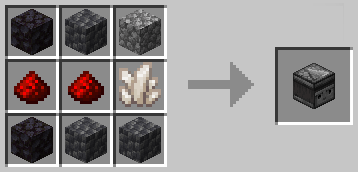
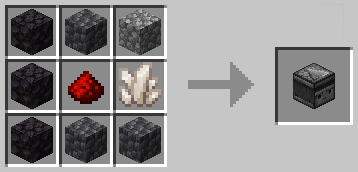
added shapeless recipes

Changed region(s): [[0.0307, 0.3488, 0.1536, 0.6395]]

diff --git a/RECIPE.md b/RECIPE.md
@@ -121,7 +121,7 @@
 ### Observer
 <img src="https://github.com/mygazthehealer/chocos-crafting-tweaks/blob/main/other/crafting/observer.png?raw=true">
 
-- Input is 2 Redstone Dust, 1 Quartz and 6 Cobblestone/Cobbled Deepslate/Blackstone (instead of 2 Redstone Dust, 1 Quartz and 6 Cobblestone)
+- Input is 1 Redstone Dust, 1 Quartz and 7 Cobblestone/Cobbled Deepslate/Blackstone (instead of 2 Redstone Dust, 1 Quartz and 6 Cobblestone)
   
 ### Piston
 <img src="https://github.com/mygazthehealer/chocos-crafting-tweaks/blob/main/other/crafting/piston.png?raw=true">
@@ -224,7 +224,23 @@
 ### Red Nether Bricks
 <img src="https://github.com/mygazthehealer/chocos-crafting-tweaks/blob/main/other/crafting/red_nether_bricks.png?raw=true">
 
-- New Recipe for Red Nether Bricks (can also be Crafted from 2 Nether Brick Blocks and 2 Nether Wart Blocks)
+- New Recipe for Red Nether Bricks (can also be Crafted from 1 Nether Bricks and 1 Nether Wart Block)
+
+### Coarse Dirt
+<img src="https://github.com/mygazthehealer/chocos-crafting-tweaks/blob/main/other/crafting/coarse_dirt.png?raw=true">
+
+- Recipe is now Shapeless
+
+### Andesite 
+<img src="https://github.com/mygazthehealer/chocos-crafting-tweaks/blob/main/other/crafting/andesite.png?raw=true">
+
+- Input is 1 Stone and 1 Diorite (instead of 1 Cobblestone and 1 Diorite)
+
+### Diorite 
+<img src="https://github.com/mygazthehealer/chocos-crafting-tweaks/blob/main/other/crafting/diorite.png?raw=true">
+
+- Recipe is now Shapeless
+- Input is 1 Stone and 1 Quartz (instead of 2 Stone and 2 Quartz)
 
 ### Packed Ice
 <img src="https://github.com/mygazthehealer/chocos-crafting-tweaks/blob/main/other/crafting/ice_packed.png?raw=true">
